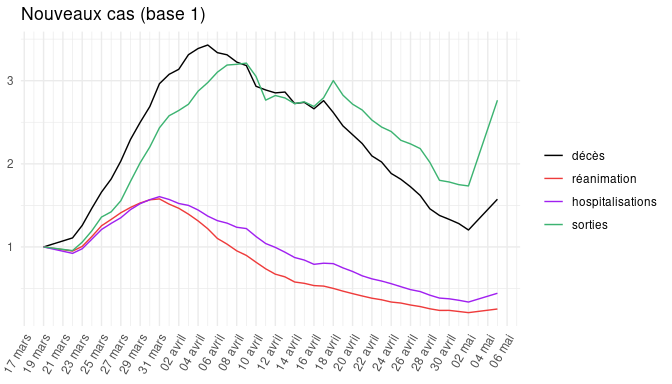
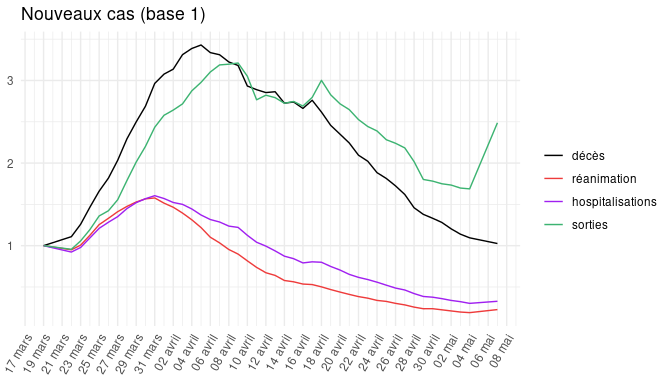
maj 7 mai 2020

diff --git a/README.md b/README.md
@@ -1,21 +1,22 @@
 ---
 title: "Evolutions Covid-19 (France)"
-date: "2020-05-06"
+date: "2020-05-07"
 output:
   md_document:
     variant: markdown_github
     preserve_yaml: TRUE
     toc: TRUE
-#  rmdformats::html_clean:
-#    thumbnails: FALSE 
-#    use_bookdown: FALSE 
+ # rmdformats::html_clean:
+ #   thumbnails: FALSE
+ #   use_bookdown: FALSE
 ---
 
 -   [Données](#données)
 -   [Cadrage](#cadrage)
     -   [Pyramides des âges](#pyramides-des-âges)
     -   [Taux par âge](#taux-par-âge)
--   [Evolution des stocks](#evolution-des-stocks)
+-   [Evolution des “stocks” (nb de
+    cas)](#evolution-des-stocks-nb-de-cas)
     -   [Décès cumulés](#décès-cumulés)
     -   [Réanimation et
         hospitalisation](#réanimation-et-hospitalisation)
@@ -24,8 +25,9 @@ output:
     -   [Décès cumulés par âge](#décès-cumulés-par-âge)
     -   [Réanimation par âge](#réanimation-par-âge)
     -   [Hospitalisations par âge](#hospitalisations-par-âge)
--   [Evolutions des flux](#evolutions-des-flux)
-    -   [Nouveaux cas (réa/hospi/dc/rad)](#nouveaux-cas-réahospidcrad)
+-   [Evolutions des “flux” (nb de *nouveaux*
+    cas)](#evolutions-des-flux-nb-de-nouveaux-cas)
+    -   [Nouveaux cas](#nouveaux-cas)
     -   [Excédent de sorties de
         l’hôpital](#excédent-de-sorties-de-lhôpital)
     -   [Décès par région](#décès-par-région)
@@ -64,17 +66,17 @@ mortalité à partir des décès cumulés au dernier jour d’observation.
 |:--------|---------------------:|-----------------:|---------------:|
 | 0-9     |                  1.02|              0.34|            0.03|
 | 10-19   |                  1.00|              0.26|            0.04|
-| 20-29   |                  4.74|              0.80|            0.23|
-| 30-39   |                 11.02|              2.82|            0.82|
-| 40-49   |                 23.10|              6.76|            2.33|
-| 50-59   |                 47.42|             17.20|            8.15|
-| 60-69   |                 77.54|             29.00|           23.39|
-| 70-79   |                120.54|             33.25|           63.74|
-| 80-89   |                201.75|              8.88|          186.41|
-| 90 et + |                298.65|              1.86|          371.53|
+| 20-29   |                  4.74|              0.80|            0.25|
+| 30-39   |                 11.02|              2.82|            0.86|
+| 40-49   |                 23.10|              6.76|            2.36|
+| 50-59   |                 47.42|             17.20|            8.41|
+| 60-69   |                 77.54|             29.00|           23.96|
+| 70-79   |                120.54|             33.25|           64.95|
+| 80-89   |                201.75|              8.88|          189.73|
+| 90 et + |                298.65|              1.86|          379.43|
 
-Evolution des stocks
-====================
+Evolution des “stocks” (nb de cas)
+==================================
 
 Décès cumulés
 -------------
@@ -121,11 +123,11 @@ Hospitalisations par âge
 
 <img src="README_files/figure-markdown_github/stocks_hosp_age2-1.png" style="display: block; margin: auto;" />
 
-Evolutions des flux
-===================
+Evolutions des “flux” (nb de *nouveaux* cas)
+============================================
 
-Nouveaux cas (réa/hospi/dc/rad)
--------------------------------
+Nouveaux cas
+------------
 
 <img src="README_files/figure-markdown_github/nouveaux1-1.png" style="display: block; margin: auto;" />
 
